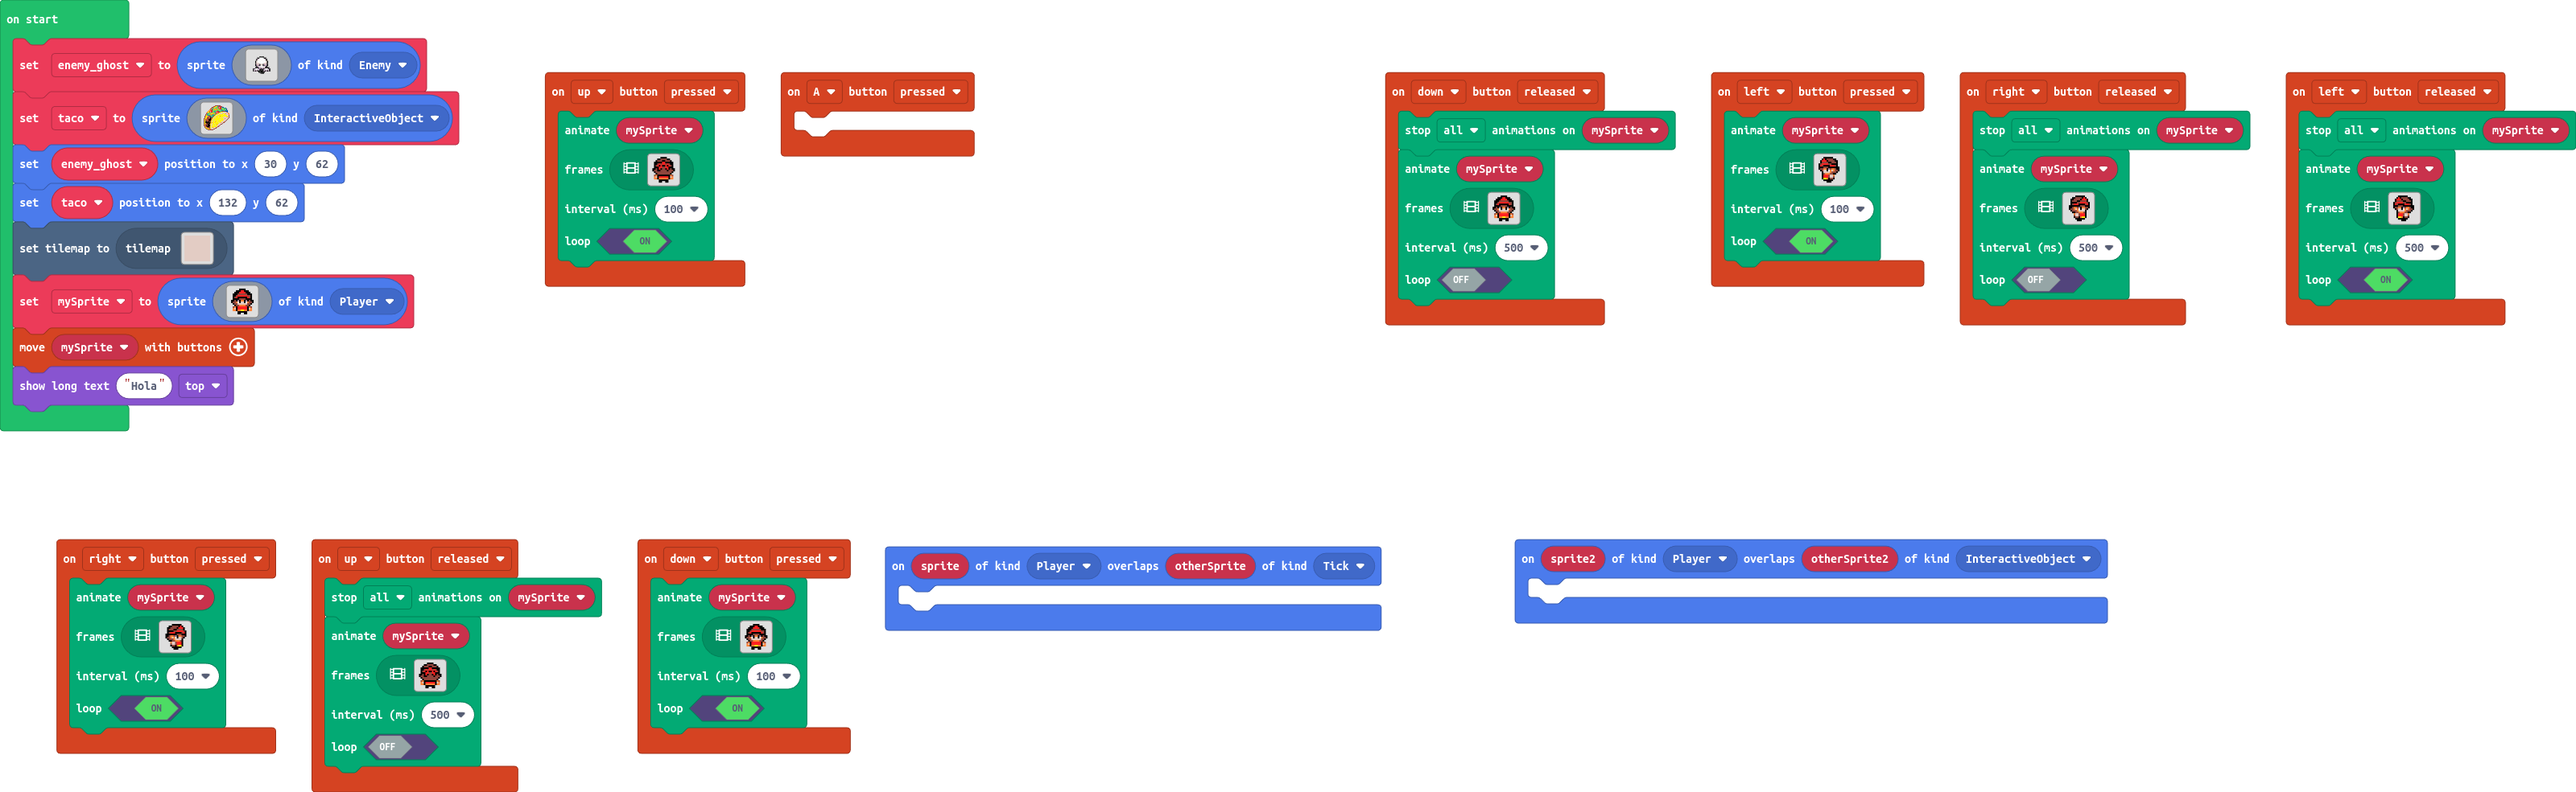
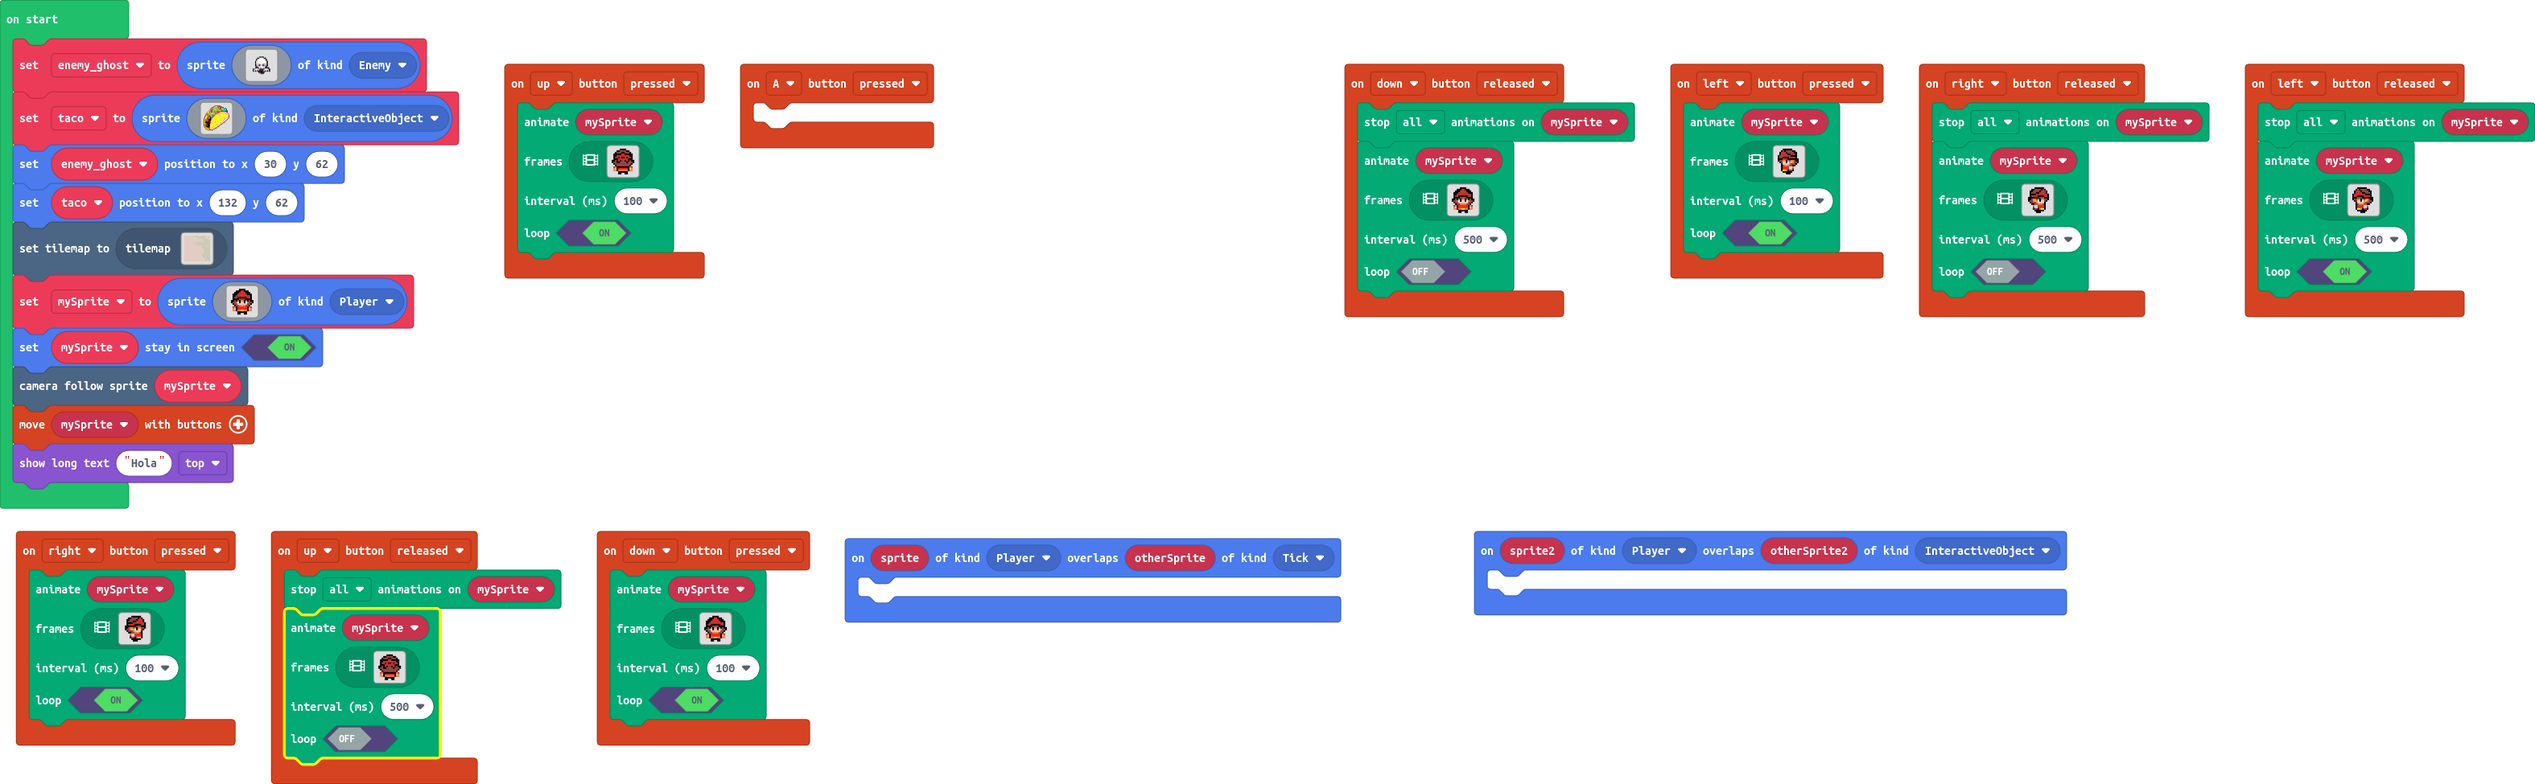
feat: camera movement

diff --git a/tilemap.g.ts b/tilemap.g.ts
@@ -43,27 +43,103 @@ namespace myTiles {
 . . . . . . . . . . . . . . . . 
 . . . . . . . . . . . . . . . . 
 `, [myTiles.transparency16], TileScale.Sixteen);
-            case "level3":
-            case "level3":return tiles.createTilemap(hex`1000100001010101010101010101010101010101010101010101010101010101010101010101010101010101010101010101010101010101010101010101010101010101010101010101010101010101010101010101010101010101010101010101010101010101010101010101010101010101010101010101010101010101010101010101010101010101010101010101010101010101010101010101010101010101010101010101010101010101010101010101010101010101010101010101010101010101010101010101010101010101010101010101010101010101010101010101010101010101010101010101010101010101010101010101010101010101`, img`
-. . . . . . . . . . . . . . . . 
-. . . . . . . . . . . . . . . . 
-. . . . . . . . . . . . . . . . 
-. . . . . . . . . . . . . . . . 
-. . . . . . . . . . . . . . . . 
-. . . . . . . . . . . . . . . . 
-. . . . . . . . . . . . . . . . 
-. . . . . . . . . . . . . . . . 
-. . . . . . . . . . . . . . . . 
-. . . . . . . . . . . . . . . . 
-. . . . . . . . . . . . . . . . 
-. . . . . . . . . . . . . . . . 
-. . . . . . . . . . . . . . . . 
-. . . . . . . . . . . . . . . . 
-. . . . . . . . . . . . . . . . 
-. . . . . . . . . . . . . . . . 
-`, [myTiles.transparency16,sprites.castle.tilePath5], TileScale.Sixteen);
             case "level4":
             case "level4":return tiles.createTilemap(hex`1000100000000000000000000000000000000000000000000000000000000000000000000000000000000000000000000000000000000000000000000000000000000000000000000000000000000000000000000000000000000000000000000000000000000000000000000000000000000000000000000000000000000000000000000000000000000000000000000000000000000000000000000000000000000000000000000000000000000000000000000000000000000000000000000000000000000000000000000000000000000000000000000000000000000000000000000000000000000000000000000000000000000000000000000000000000000000`, img`
+. . . . . . . . . . . . . . . . 
+. . . . . . . . . . . . . . . . 
+. . . . . . . . . . . . . . . . 
+. . . . . . . . . . . . . . . . 
+. . . . . . . . . . . . . . . . 
+. . . . . . . . . . . . . . . . 
+. . . . . . . . . . . . . . . . 
+. . . . . . . . . . . . . . . . 
+. . . . . . . . . . . . . . . . 
+. . . . . . . . . . . . . . . . 
+. . . . . . . . . . . . . . . . 
+. . . . . . . . . . . . . . . . 
+. . . . . . . . . . . . . . . . 
+. . . . . . . . . . . . . . . . 
+. . . . . . . . . . . . . . . . 
+. . . . . . . . . . . . . . . . 
+`, [myTiles.transparency16], TileScale.Sixteen);
+            case "level5":
+            case "level5":return tiles.createTilemap(hex`1000100000000000000000000000000000000000000000000000000000000000000000000000000000000000000000000000000000000000000000000000000000000000000000000000000000000000000000000000000000000000000000000000000000000000000000000000000000000000000000000000000000000000000000000000000000000000000000000000000000000000000000000000000000000000000000000000000000000000000000000000000000000000000000000000000000000000000000000000000000000000000000000000000000000000000000000000000000000000000000000000000000000000000000000000000000000000`, img`
+. . . . . . . . . . . . . . . . 
+. . . . . . . . . . . . . . . . 
+. . . . . . . . . . . . . . . . 
+. . . . . . . . . . . . . . . . 
+. . . . . . . . . . . . . . . . 
+. . . . . . . . . . . . . . . . 
+. . . . . . . . . . . . . . . . 
+. . . . . . . . . . . . . . . . 
+. . . . . . . . . . . . . . . . 
+. . . . . . . . . . . . . . . . 
+. . . . . . . . . . . . . . . . 
+. . . . . . . . . . . . . . . . 
+. . . . . . . . . . . . . . . . 
+. . . . . . . . . . . . . . . . 
+. . . . . . . . . . . . . . . . 
+. . . . . . . . . . . . . . . . 
+`, [myTiles.transparency16], TileScale.Sixteen);
+            case "level6":
+            case "level6":return tiles.createTilemap(hex`1000100000000000000000000000000000000000000000000000000000000000000000000000000000000000000000000000000000000000000000000000000000000000000000000000000000000000000000000000000000000000000000000000000000000000000000000000000000000000000000000000000000000000000000000000000000000000000000000000000000000000000000000000000000000000000000000000000000000000000000000000000000000000000000000000000000000000000000000000000000000000000000000000000000000000000000000000000000000000000000000000000000000000000000000000000000000000`, img`
+. . . . . . . . . . . . . . . . 
+. . . . . . . . . . . . . . . . 
+. . . . . . . . . . . . . . . . 
+. . . . . . . . . . . . . . . . 
+. . . . . . . . . . . . . . . . 
+. . . . . . . . . . . . . . . . 
+. . . . . . . . . . . . . . . . 
+. . . . . . . . . . . . . . . . 
+. . . . . . . . . . . . . . . . 
+. . . . . . . . . . . . . . . . 
+. . . . . . . . . . . . . . . . 
+. . . . . . . . . . . . . . . . 
+. . . . . . . . . . . . . . . . 
+. . . . . . . . . . . . . . . . 
+. . . . . . . . . . . . . . . . 
+. . . . . . . . . . . . . . . . 
+`, [myTiles.transparency16], TileScale.Sixteen);
+            case "level7":
+            case "level7":return tiles.createTilemap(hex`1000100000000000000000000000000000000000000000000000000000000000000000000000000000000000000000000000000000000000000000000000000000000000000000000000000000000000000000000000000000000000000000000000000000000000000000000000000000000000000000000000000000000000000000000000000000000000000000000000000000000000000000000000000000000000000000000000000000000000000000000000000000000000000000000000000000000000000000000000000000000000000000000000000000000000000000000000000000000000000000000000000000000000000000000000000000000000`, img`
+. . . . . . . . . . . . . . . . 
+. . . . . . . . . . . . . . . . 
+. . . . . . . . . . . . . . . . 
+. . . . . . . . . . . . . . . . 
+. . . . . . . . . . . . . . . . 
+. . . . . . . . . . . . . . . . 
+. . . . . . . . . . . . . . . . 
+. . . . . . . . . . . . . . . . 
+. . . . . . . . . . . . . . . . 
+. . . . . . . . . . . . . . . . 
+. . . . . . . . . . . . . . . . 
+. . . . . . . . . . . . . . . . 
+. . . . . . . . . . . . . . . . 
+. . . . . . . . . . . . . . . . 
+. . . . . . . . . . . . . . . . 
+. . . . . . . . . . . . . . . . 
+`, [myTiles.transparency16], TileScale.Sixteen);
+            case "level3":
+            case "level3":return tiles.createTilemap(hex`1000100001010101010102020201020202010101010101010101000101020202020101010101010101010101010101010202020101010101010101010101010102020202010101010101010202020202020202020101010101010101020202020202020201010101010101010101010202020102010101010101010101010102020202020101010101010101010101010202020201010101010101010101010102020202010101010101010101010101020202020101010101010101010101020202020201010101010101010101010202020202010101010101010101010101020102020101010101010101010101010102020201010101010101010101010101020102`, img`
+. . . . . . . . . . . . . . . . 
+. . . . . . . . . . . . . . . . 
+. . . . . . . . . . . . . . . . 
+. . . . . . . . . . . . . . . . 
+. . . . . . . . . . . . . . . . 
+. . . . . . . . . . . . . . . . 
+. . . . . . . . . . . . . . . . 
+. . . . . . . . . . . . . . . . 
+. . . . . . . . . . . . . . . . 
+. . . . . . . . . . . . . . . . 
+. . . . . . . . . . . . . . . . 
+. . . . . . . . . . . . . . . . 
+. . . . . . . . . . . . . . . . 
+. . . . . . . . . . . . . . . . 
+. . . . . . . . . . . . . . . . 
+. . . . . . . . . . . . . . . . 
+`, [myTiles.transparency16,sprites.castle.tilePath5,sprites.castle.tilePath4], TileScale.Sixteen);
+            case "level8":
+            case "level8":return tiles.createTilemap(hex`1000100000000000000000000000000000000000000000000000000000000000000000000000000000000000000000000000000000000000000000000000000000000000000000000000000000000000000000000000000000000000000000000000000000000000000000000000000000000000000000000000000000000000000000000000000000000000000000000000000000000000000000000000000000000000000000000000000000000000000000000000000000000000000000000000000000000000000000000000000000000000000000000000000000000000000000000000000000000000000000000000000000000000000000000000000000000000`, img`
 . . . . . . . . . . . . . . . . 
 . . . . . . . . . . . . . . . . 
 . . . . . . . . . . . . . . . . 

diff --git a/main.ts b/main.ts
@@ -451,5 +451,7 @@ mySprite = sprites.create(img`
     . . . . . f f f f f f . . . . . 
     . . . . . f f . . f f . . . . . 
     `, SpriteKind.Player)
+mySprite.setStayInScreen(true)
+scene.cameraFollowSprite(mySprite)
 controller.moveSprite(mySprite)
 game.showLongText("Hola", DialogLayout.Top)
